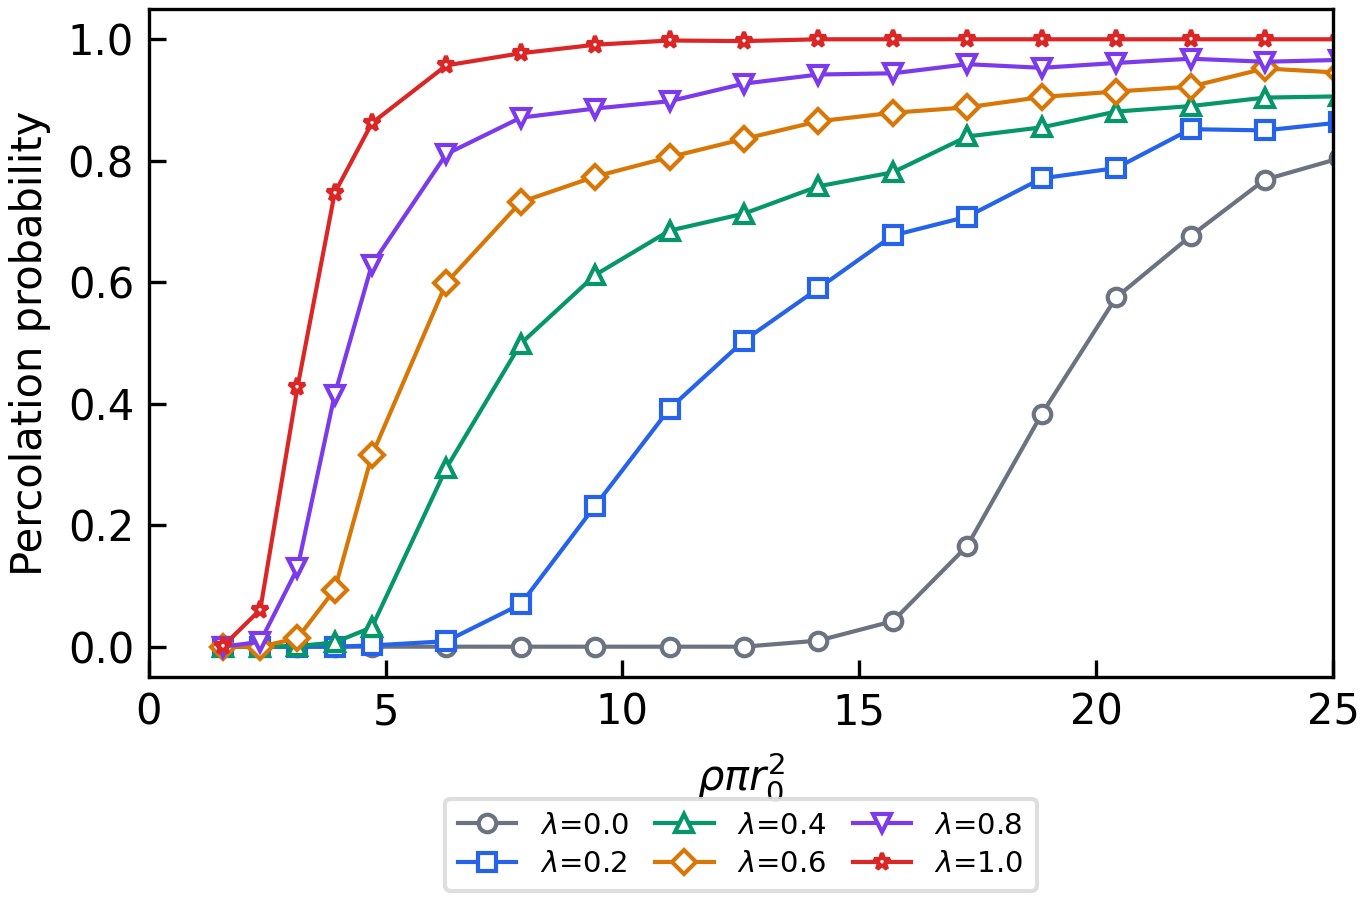
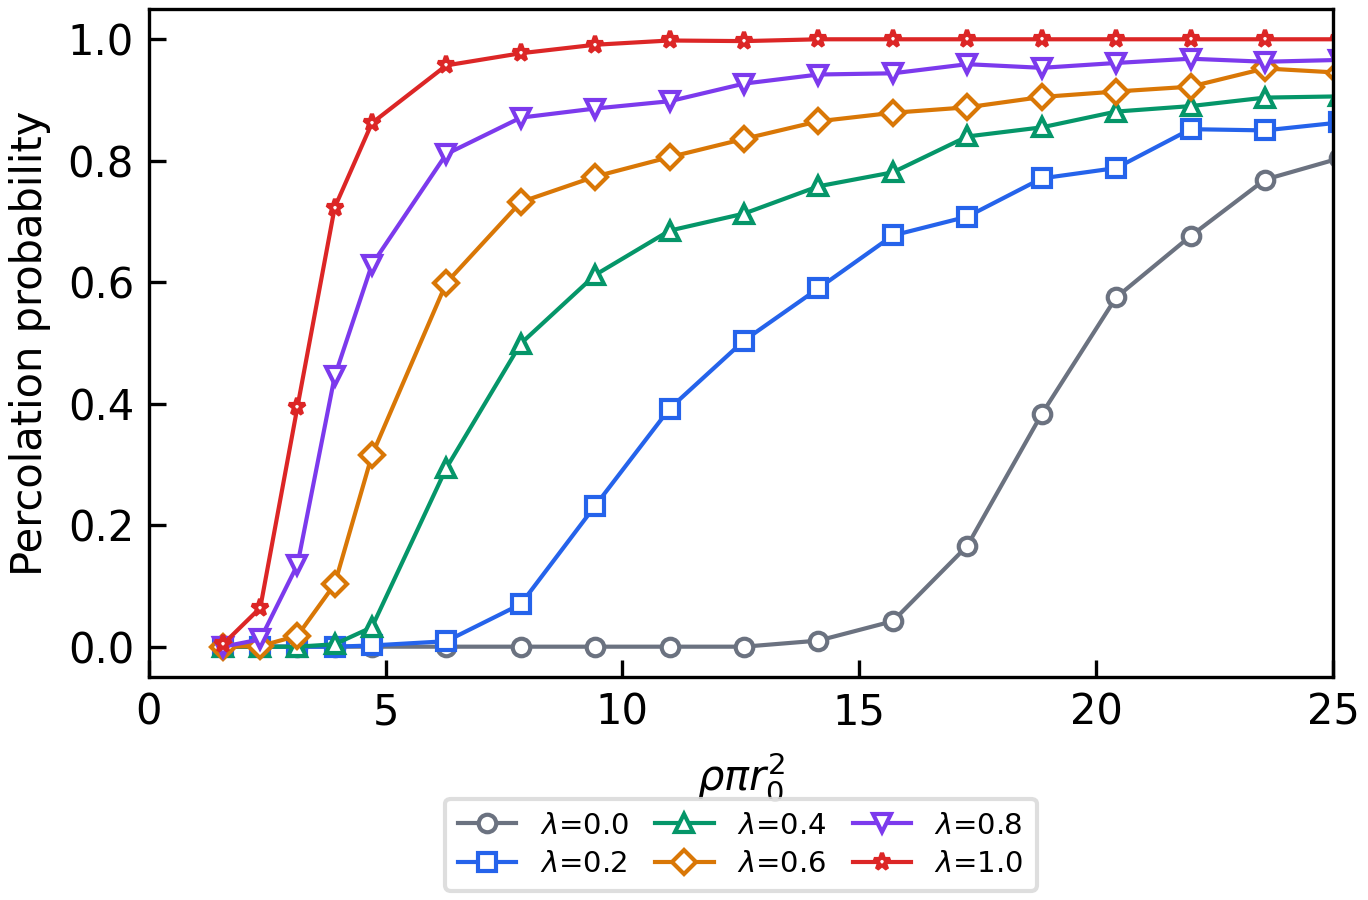
Make experiment outputs fully reproducible

Changed region(s): [[0.1535, 0.2178, 0.2763, 0.7467], [0.2456, 0.1556, 0.2763, 0.2178]]

diff --git a/experiments.py b/experiments.py
@@ -1237,18 +1237,11 @@ def plot_infection_route(
     path: Path,
     model: str,
 ) -> None:
-    candidates = [(config, result) for config, result in results if config.model == model]
-    if not candidates:
+    selection = select_route_result(results, model)
+    if selection is None:
         return
-    if model == "normal":
-        non_percolating = [
-            (config, result)
-            for config, result in candidates
-            if not has_percolated_to_top(result, config.L)
-        ]
-        config, result = max(non_percolating or candidates, key=lambda item: item[1].total_infected)
-    else:
-        config, result = max(candidates, key=lambda item: item[1].total_infected)
+    config, result = selection
+
     positions = result.positions
     infected_ids = np.flatnonzero(np.isfinite(result.infected_time))
     superspreader_ids = np.flatnonzero(result.is_superspreader)
@@ -1362,6 +1355,69 @@ def plot_infection_route(
     finish_plot(path, legend=False)
 
 
+def select_route_result(
+    results: list[tuple[ExperimentConfig, SimulationResult]],
+    model: str,
+) -> tuple[ExperimentConfig, SimulationResult] | None:
+    """Select the deterministic representative used for one infection-route figure."""
+    candidates = [(config, result) for config, result in results if config.model == model]
+    if not candidates:
+        return None
+    if model == "normal":
+        non_percolating = [
+            (config, result)
+            for config, result in candidates
+            if not has_percolated_to_top(result, config.L)
+        ]
+        return max(non_percolating or candidates, key=lambda item: item[1].total_infected)
+    return max(candidates, key=lambda item: item[1].total_infected)
+
+
+def select_route_results(
+    results: list[tuple[ExperimentConfig, SimulationResult]],
+) -> list[tuple[ExperimentConfig, SimulationResult]]:
+    selected = [select_route_result(results, model) for model in ("normal", "strong", "hub")]
+    return [item for item in selected if item is not None]
+
+
+def route_selection_rows(
+    results: list[tuple[ExperimentConfig, SimulationResult]],
+) -> list[dict[str, object]]:
+    return [
+        {
+            "experiment": config.experiment,
+            "model": config.model,
+            "lambda_ss": f"{config.lambda_ss:.4f}",
+            "N": config.N,
+            "density": f"{config.density:.6f}",
+            "L": f"{config.L:.6f}",
+            "seed": config.seed,
+            "max_steps": config.max_steps,
+            "total_infected": result.total_infected,
+            "percolated": int(has_percolated_to_top(result, config.L)),
+        }
+        for config, result in results
+    ]
+
+
+def route_configs_from_rows(rows: list[dict[str, object]]) -> list[ExperimentConfig]:
+    configs = [
+        ExperimentConfig(
+            experiment=str(row["experiment"]),
+            model=str(row["model"]),
+            lambda_ss=float(row["lambda_ss"]),
+            N=int(row["N"]),
+            density=float(row["density"]),
+            seed=int(row["seed"]),
+            max_steps=int(row["max_steps"]),
+        )
+        for row in rows
+    ]
+    if {config.model for config in configs} != {"normal", "strong", "hub"}:
+        raise ValueError("route_plot_selections.csv must contain normal, strong, and hub rows")
+    return configs
+
+
 def write_plots(
     plots_dir: Path,
     *,
@@ -1413,9 +1469,10 @@ def write_plots(
     plot_infection_route(route_results, plots_dir / PLOT_FILENAMES["infection_route_hub"], "hub")
 
 
-def regenerate_plots_from_csv(output_dir: Path, seeds: Iterable[int], max_steps: int) -> None:
+def regenerate_plots_from_csv(output_dir: Path) -> None:
     route_results: list[tuple[ExperimentConfig, SimulationResult]] = []
-    for config in secondary_route_configs(seeds, max_steps):
+    selection_rows = read_csv(output_dir / "route_plot_selections.csv")
+    for config in route_configs_from_rows(selection_rows):
         result, _metrics = run_simulation(config)
         route_results.append((config, result))
 
@@ -1435,13 +1492,20 @@ def regenerate_plots_from_csv(output_dir: Path, seeds: Iterable[int], max_steps:
     )
 
 
-def write_results_readme(output_dir: Path) -> None:
+def write_results_readme(
+    output_dir: Path,
+    *,
+    seed_offset: int,
+    seed_count: int,
+    max_steps: int,
+    jobs: int,
+) -> None:
     content = f"""# Member 4 Generated Results
 
 This directory is generated by:
 
 ```bash
-.venv/bin/python experiments.py
+python3 experiments.py --seeds {seed_count} --seed-offset {seed_offset} --max-steps {max_steps} --jobs {jobs}
 ```
 
 ## Files
@@ -1459,9 +1523,13 @@ This directory is generated by:
 - `sars_singapore_epidemic_curve.csv`: approximate six-day SARS Singapore epidemic-curve bins.
 - `sars_epidemic_model_curves.csv`: model curves for the SARS epidemic comparison.
 - `sensitivity_summary.csv`: averaged paper lambda-sweep results.
+- `route_plot_selections.csv`: exact configurations selected for Figs. 9-11.
 - `plots/`: PNG figures generated from the CSV files for analysis or presentation.
 
+All simulation groups use the single seed block `{seed_offset}..{seed_offset + seed_count - 1}`.
 All values are reproducible from the seeds recorded in `summary_metrics.csv`.
+`--plot-only` reruns only the three exact route configurations recorded in
+`route_plot_selections.csv`; all other plots are regenerated directly from CSV files.
 Percolation follows the reference-paper style definition: an outbreak has percolated
 when infection reaches the top band of the spatial system.
 Percolation uses `L = 10 r0` and varies `N = 50, 75, 100, 125, 150..900`; the paper-style propagation plots use
@@ -1494,7 +1562,7 @@ def main() -> None:
     seeds = tuple(range(args.seed_offset, args.seed_offset + args.seeds))
     output_dir = args.output_dir
     if args.plot_only:
-        regenerate_plots_from_csv(output_dir, seeds, args.max_steps)
+        regenerate_plots_from_csv(output_dir)
         print(f"regenerated paper-style plots in {output_dir / 'plots'}")
         return
 
@@ -1590,6 +1658,9 @@ def main() -> None:
     sensitivity_rows = group_metrics(sensitivity_metrics, ("experiment", "model", "lambda_ss", "N", "density"))
     write_csv(output_dir / "sensitivity_summary.csv", sensitivity_rows)
 
+    selected_route_results = select_route_results(route_results)
+    write_csv(output_dir / "route_plot_selections.csv", route_selection_rows(selected_route_results))
+
     plot_infection_probability(infection_rows, plots_dir / PLOT_FILENAMES["infection_probability_strong"], "strong")
     plot_infection_probability(infection_rows, plots_dir / PLOT_FILENAMES["infection_probability_hub"], "hub")
     plot_percolation(percolation_rows, plots_dir / PLOT_FILENAMES["percolation_probability"])
@@ -1617,11 +1688,17 @@ def main() -> None:
         plots_dir / PLOT_FILENAMES["sars_epidemic_curve_comparison"],
     )
     plot_sensitivity(sensitivity_rows, plots_dir / PLOT_FILENAMES["sensitivity_lambda_attack_rate"])
-    plot_infection_route(route_results, plots_dir / PLOT_FILENAMES["infection_route_normal"], "normal")
-    plot_infection_route(route_results, plots_dir / PLOT_FILENAMES["infection_route_strong"], "strong")
-    plot_infection_route(route_results, plots_dir / PLOT_FILENAMES["infection_route_hub"], "hub")
+    plot_infection_route(selected_route_results, plots_dir / PLOT_FILENAMES["infection_route_normal"], "normal")
+    plot_infection_route(selected_route_results, plots_dir / PLOT_FILENAMES["infection_route_strong"], "strong")
+    plot_infection_route(selected_route_results, plots_dir / PLOT_FILENAMES["infection_route_hub"], "hub")
 
-    write_results_readme(output_dir)
+    write_results_readme(
+        output_dir,
+        seed_offset=args.seed_offset,
+        seed_count=args.seeds,
+        max_steps=args.max_steps,
+        jobs=args.jobs,
+    )
 
     print(f"wrote clean results to {output_dir}")
 

diff --git a/tests/test_experiments.py b/tests/test_experiments.py
@@ -1,10 +1,16 @@
 import unittest
+from types import SimpleNamespace
+
+import numpy as np
 
 from experiments import (
+    ExperimentConfig,
     PERCOLATION_N_SWEEP,
     RunMetrics,
     critical_density_rows,
+    has_percolated_to_top,
     metric_rows,
+    route_configs_from_rows,
     sars_epidemic_curve_rows,
     sars_secondary_patient_rows,
 )
@@ -46,6 +52,54 @@ class ExperimentDataTests(unittest.TestCase):
         normalized_densities = [n / 100.0 * 3.141592653589793 for n in PERCOLATION_N_SWEEP]
         self.assertLess(min(normalized_densities), 3.2)
         self.assertGreater(max(normalized_densities), 3.2)
+
+    def test_top_band_percolation_rule(self) -> None:
+        below = SimpleNamespace(
+            infected_time=np.array([0.0, 1.0]),
+            positions=np.array([[5.0, 0.0], [5.0, 8.999]]),
+        )
+        reaches_band = SimpleNamespace(
+            infected_time=np.array([0.0, 1.0]),
+            positions=np.array([[5.0, 0.0], [5.0, 9.0]]),
+        )
+
+        self.assertFalse(has_percolated_to_top(below, 10.0))
+        self.assertTrue(has_percolated_to_top(reaches_band, 10.0))
+
+    def test_route_selection_rows_restore_exact_configs(self) -> None:
+        rows = [
+            {
+                "experiment": "paper_fig_9_13_networks",
+                "model": model,
+                "lambda_ss": "0.0000" if model == "normal" else "0.2000",
+                "N": "477",
+                "density": "4.770000",
+                "L": "10.000000",
+                "seed": str(seed),
+                "max_steps": "200",
+                "total_infected": "100",
+                "percolated": "1",
+            }
+            for model, seed in (("normal", 100001), ("strong", 100002), ("hub", 100003))
+        ]
+
+        configs = route_configs_from_rows(rows)
+
+        self.assertEqual(
+            configs,
+            [
+                ExperimentConfig(
+                    experiment="paper_fig_9_13_networks",
+                    model=model,
+                    lambda_ss=0.0 if model == "normal" else 0.2,
+                    N=477,
+                    density=4.77,
+                    seed=seed,
+                    max_steps=200,
+                )
+                for model, seed in (("normal", 100001), ("strong", 100002), ("hub", 100003))
+            ],
+        )
 
     def test_output_row_schemas_are_stable(self) -> None:
         metric = RunMetrics(

diff --git a/results/README.md b/results/README.md
@@ -3,7 +3,7 @@
 This directory is generated by:
 
 ```bash
-.venv/bin/python experiments.py
+python3 experiments.py --seeds 1000 --seed-offset 100000 --max-steps 200 --jobs 1
 ```
 
 ## Files
@@ -21,9 +21,13 @@ This directory is generated by:
 - `sars_singapore_epidemic_curve.csv`: approximate six-day SARS Singapore epidemic-curve bins.
 - `sars_epidemic_model_curves.csv`: model curves for the SARS epidemic comparison.
 - `sensitivity_summary.csv`: averaged paper lambda-sweep results.
+- `route_plot_selections.csv`: exact configurations selected for Figs. 9-11.
 - `plots/`: PNG figures generated from the CSV files for analysis or presentation.
 
+All simulation groups use the single seed block `100000..100999`.
 All values are reproducible from the seeds recorded in `summary_metrics.csv`.
+`--plot-only` reruns only the three exact route configurations recorded in
+`route_plot_selections.csv`; all other plots are regenerated directly from CSV files.
 Percolation follows the reference-paper style definition: an outbreak has percolated
 when infection reaches the top band of the spatial system.
 Percolation uses `L = 10 r0` and varies `N = 50, 75, 100, 125, 150..900`; the paper-style propagation plots use

diff --git a/README.md b/README.md
@@ -87,6 +87,8 @@ Generated files:
   SARS comparison settings.
 - `results/sensitivity_summary.csv`: paper lambda-sweep summaries for velocity and
   attack-rate plots.
+- `results/route_plot_selections.csv`: exact seeds/configurations selected for
+  infection-route Figs. 9-11.
 - `results/plots/*.png`: figures for analysis or presentation.
 
 Percolation is defined as an outbreak reaching the top band of the spatial system.
@@ -145,6 +147,8 @@ For `strong` and `hub`, `lambda_ss` is the fraction of superspreaders in the pop
 
 - All batch outputs record the random seed used by each replicate; use `--seed-offset`
   to generate a fresh reproducible seed block.
+- `--plot-only` reads `route_plot_selections.csv` and reruns only the three exact route
+  configurations selected by the full batch.
 - Density is controlled as `N / L^2`; the experiment script computes `L` from the target
   density.
 - The paper says "periodic boundary conditions" but also defines percolation as